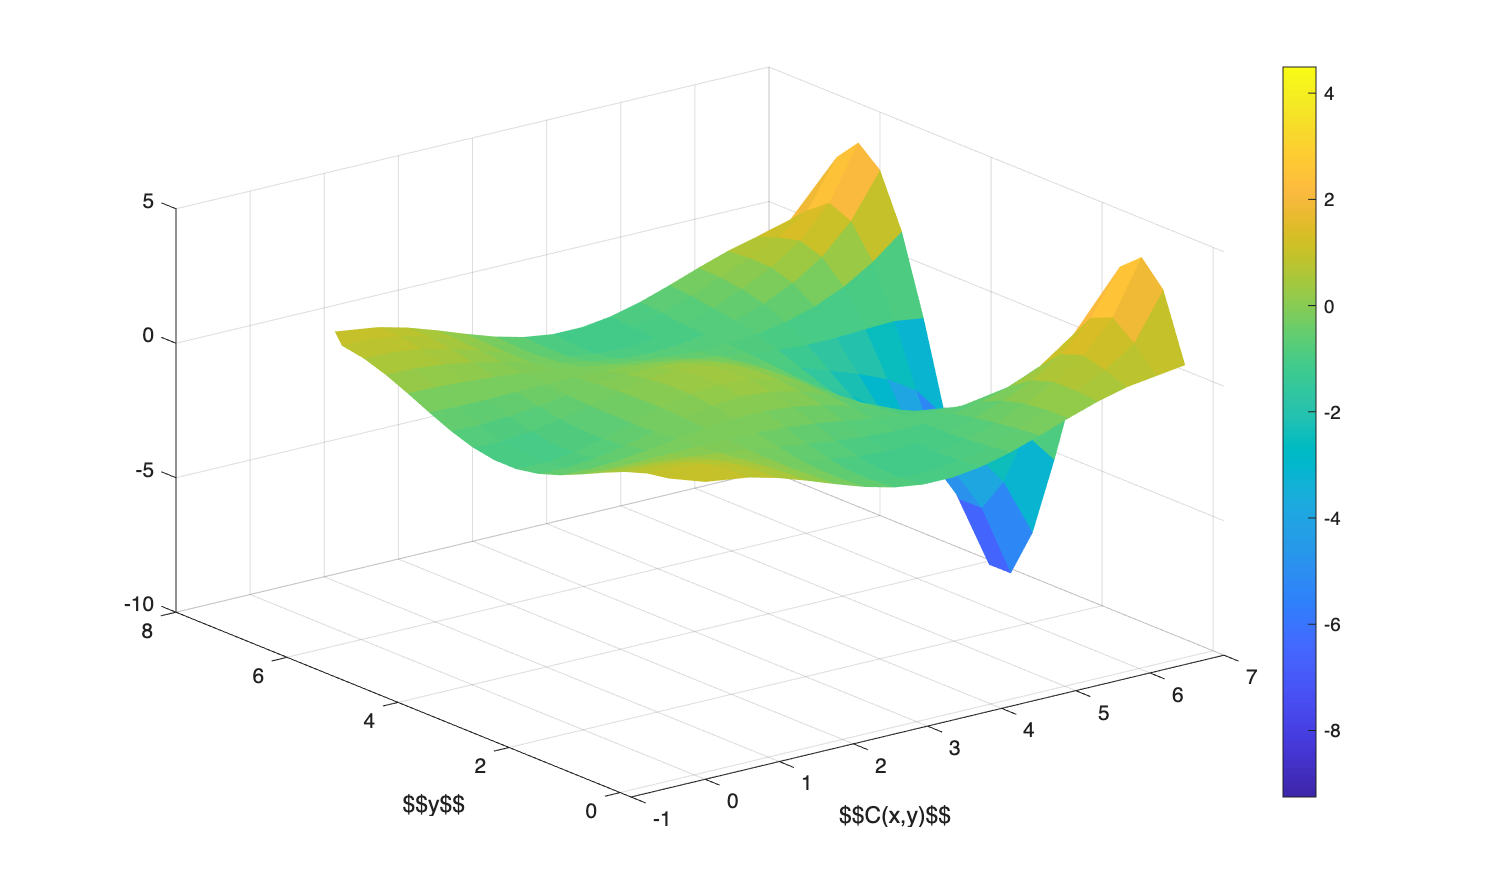
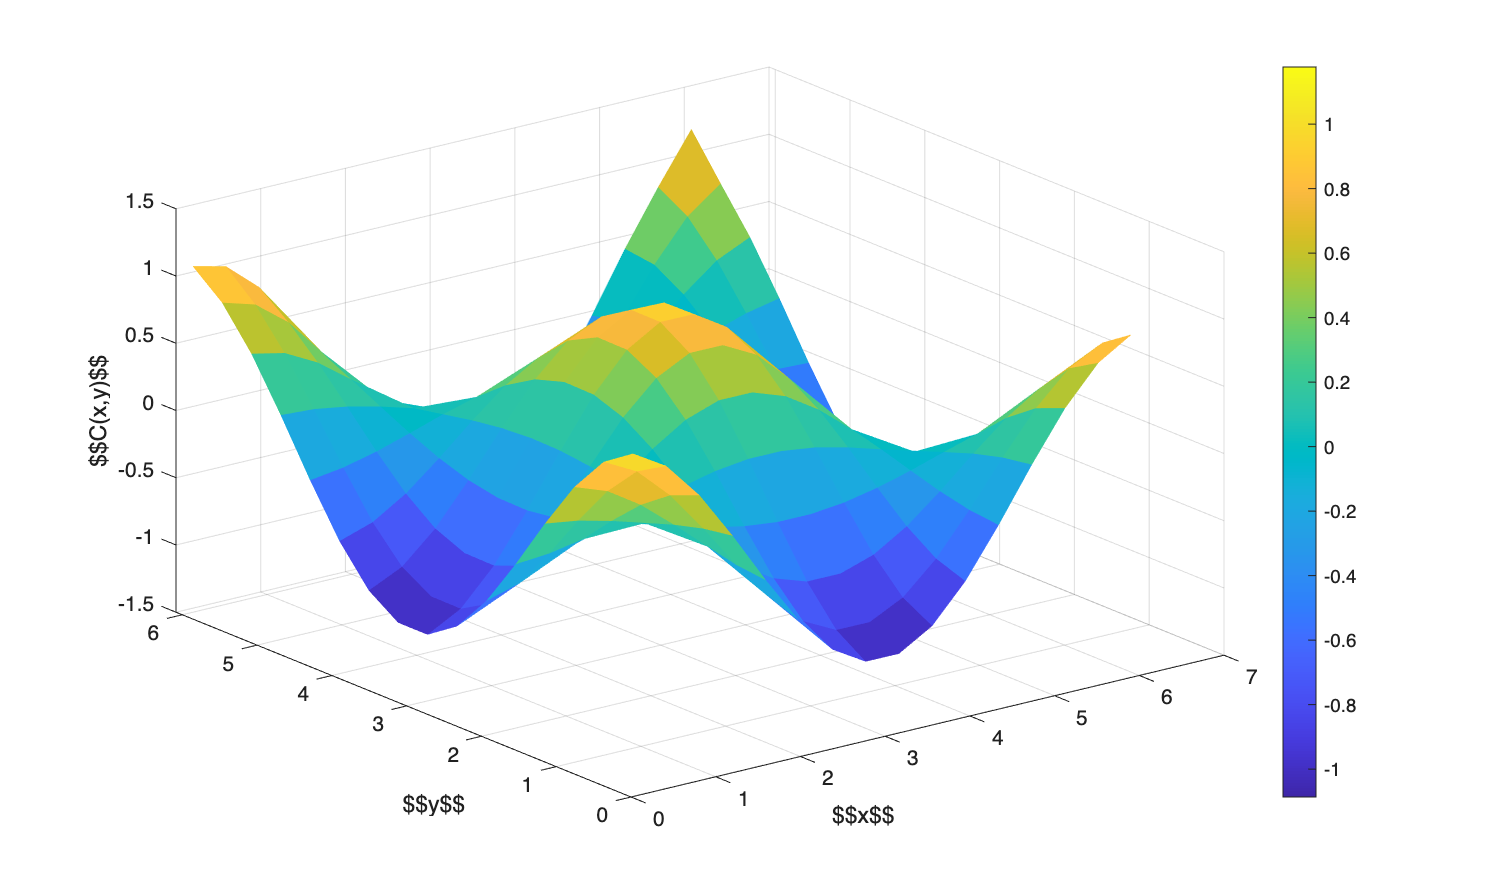
Working, not verified convergence tho

diff --git a/HW6/Main/viz.m b/HW6/Main/viz.m
@@ -7,7 +7,7 @@ clear
 %%
 x = readmatrix("xc.dat");
 y = readmatrix("yc.dat");
-c_num = readmatrix("T_4550000");
+c_num = readmatrix("T_25");
 
 [X,Y] = meshgrid(x,y);
 dx = abs(X(1,1) - X(1,2));
@@ -16,42 +16,45 @@ Ny = length(y);
 c_num = reshape(c_num, Nx, Ny)';
 %%
 %interpolate boundary cases
-for i = [1, Nx]
-    for j = 1:1:Ny
-        if(i == 1)
-            c_num(i,j) = (c_num(i +1, j) + c_num(i, j))/2;
-        else 
-            c_num(i,j) = (c_num(i , j) + c_num(i - 1, j))/ 2;
-        end
-    end
-end
+% for i = [1, Nx]
+%     for j = 1:1:Ny
+%         if(i == 1)
+%             c_num(i,j) = (c_num(i +1, j) + c_num(i, j))/2;
+%         else 
+%             c_num(i,j) = (c_num(i , j) + c_num(i - 1, j))/ 2;
+%         end
+%     end
+% end
 
 
-%extrapolate corners
-y_e = @(x, x1, y1, x2, y2) (y1 + ((x - x1)*((y2 - y1)/(x2 - x1))));
+% %extrapolate corners
+% y_e = @(x, x1, y1, x2, y2) (y1 + ((x - x1)*((y2 - y1)/(x2 - x1))));
+% 
+% c_num(1,1) = y_e(0, X(1,2), c_num(1,2), X(1,3), c_num(1,3));
+% x(1) = 0;
+% X(1,1) = 0;
+% c_num(1,Nx) = y_e(x(Nx), x(Nx-1), c_num(1,Nx-1), x(Nx - 2), c_num(1,Nx - 2));
+% 
+% c_num(Ny,1) = y_e(0, X(Ny,3), c_num(Ny,3), X(Ny,2), c_num(Ny,2));
+% X(Ny, 1) = 0;
+% c_num(Ny,Nx) = y_e(x(Nx), x(Nx-1), c_num(Ny,Nx-1), x(Nx - 2), c_num(Ny,Nx - 2));
 
-c_num(1,1) = y_e(0, X(1,2), c_num(1,2), X(1,3), c_num(1,3));
-x(1) = 0;
-X(1,1) = 0;
-c_num(1,Nx) = y_e(x(Nx), x(Nx-1), c_num(1,Nx-1), x(Nx - 2), c_num(1,Nx - 2));
 
-c_num(Ny,1) = y_e(0, X(Ny,3), c_num(Ny,3), X(Ny,2), c_num(Ny,2));
-X(Ny, 1) = 0;
-c_num(Ny,Nx) = y_e(x(Nx), x(Nx-1), c_num(Ny,Nx-1), x(Nx - 2), c_num(Ny,Nx - 2));
-
-
+c_num_NB = c_num(2:Ny - 1, 2:Nx - 1)';
+X_NB = X(2:Ny - 1, 2:Nx - 1);
+Y_NB = Y(2:Ny - 1, 2:Nx - 1);
 
 
 
 f = figure(1);
 theme(f,"light");
-surf(X, Y, c_num)
+surf(X_NB, Y_NB, c_num_NB)
 % colormap(cm)
 xlabel("$$x$$")
 ylabel("$$y$$")
-xlabel("$$C(x,y)$$")
+zlabel("$$C(x,y)$$")
 colorbar
-clim([min(c_num(:)), max(c_num(:))])
+clim([min(c_num_NB(:)), max(c_num_NB(:))])
 shading flat
 name = "HW5_ExtrapBC_Nx" + num2str(Nx) + "_Ny_" + num2str(Ny) + ".png";
 saveas(f, name, 'png')

diff --git a/HW6/Main/funcs_matrix.cpp b/HW6/Main/funcs_matrix.cpp
@@ -57,6 +57,7 @@ void matrixType::BuildA(
 	double dx = Mesh.dx;
 	double dy = Mesh.dy;
 	double k = C.k;
+	double t = runTime.time;
 	//std::cout << "Here!" << std::endl;
 
 	int row;
@@ -67,14 +68,14 @@ void matrixType::BuildA(
 		// south (Robin)
 		row = i;
 		double as,bs,gs;
-		C.BC.S(Mesh.xc[i], 0.0, as, bs, gs);
+		C.BC.S(Mesh.xc[i], t, as, bs, gs);
 		addEntry(row, row , 0.5*as + bs/dy);
 		addEntry(row, row + Nx2, 0.5*as - bs/dy); 
 
 		//north (Robin)
 		row = i + (Nx2*(Ny + 1));
 		double an,bn,gn;
-		C.BC.N(Mesh.xc[i], 0.0, an, bn, gn);
+		C.BC.N(Mesh.xc[i], t, an, bn, gn);
 		addEntry(row, row, 0.5*an + bn/dy);
 		addEntry(row, row - Nx2, 0.5*an - bn/dy);
 	}
@@ -85,19 +86,27 @@ void matrixType::BuildA(
 		//west 
 		row = Nx2*j;
 		double aw,bw,gw;
-		C.BC.W(Mesh.yc[j], 0.0, aw, bw, gw);
+		C.BC.W(Mesh.yc[j], t, aw, bw, gw);
 		addEntry(row, row, 0.5*aw + bw/dx);
 		addEntry(row, row + 1, 0.5*aw - bw/dx);
 
 		//east
 		row = Nx2*(j + 1) - 1;
-		double x = Mesh.xc[Nx + 1];
-		double x1 = Mesh.xc[Nx];
-		double x2 = Mesh.xc[Nx - 1];
-		double frac = (x - x1)/(x2 - x1);
-		addEntry(row, row, 1); //ye, x is in pos row
-		addEntry(row, row - 1, -(1 - frac)); //y1, x1 is in pos row - 1
-		addEntry(row, row - 2, -frac); // y2, 
+		double ae,be,ge;
+		C.BC.E(Mesh.yc[j], t, ae, be, ge);
+		addEntry(row, row, 0.5*ae + be/dx);
+		addEntry(row, row + 1, 0.5*ae - be/dx);
+
+		
+
+		//extrapolation code from last time
+		// double x = Mesh.xc[Nx + 1];
+		// double x1 = Mesh.xc[Nx];
+		// double x2 = Mesh.xc[Nx - 1];
+		// double frac = (x - x1)/(x2 - x1);
+		// addEntry(row, row, 1); //ye, x is in pos row
+		// addEntry(row, row - 1, -(1 - frac)); //y1, x1 is in pos row - 1
+		// addEntry(row, row - 2, -frac); // y2, 
 	}
 
 	//five-point stencil

diff --git a/HW6/Main/funcs_VolSF.cpp b/HW6/Main/funcs_VolSF.cpp
@@ -59,7 +59,7 @@ void volScalarField::set(int i, int j, double val)
 
 void volScalarField::Save(const Time& runTime) const
 {
-    double time = runTime.time;
+    int time = static_cast<int>(runTime.timeStep);
     std::string tName = std::to_string(time);
     std::ofstream file;
     file.open("T_" + tName);
